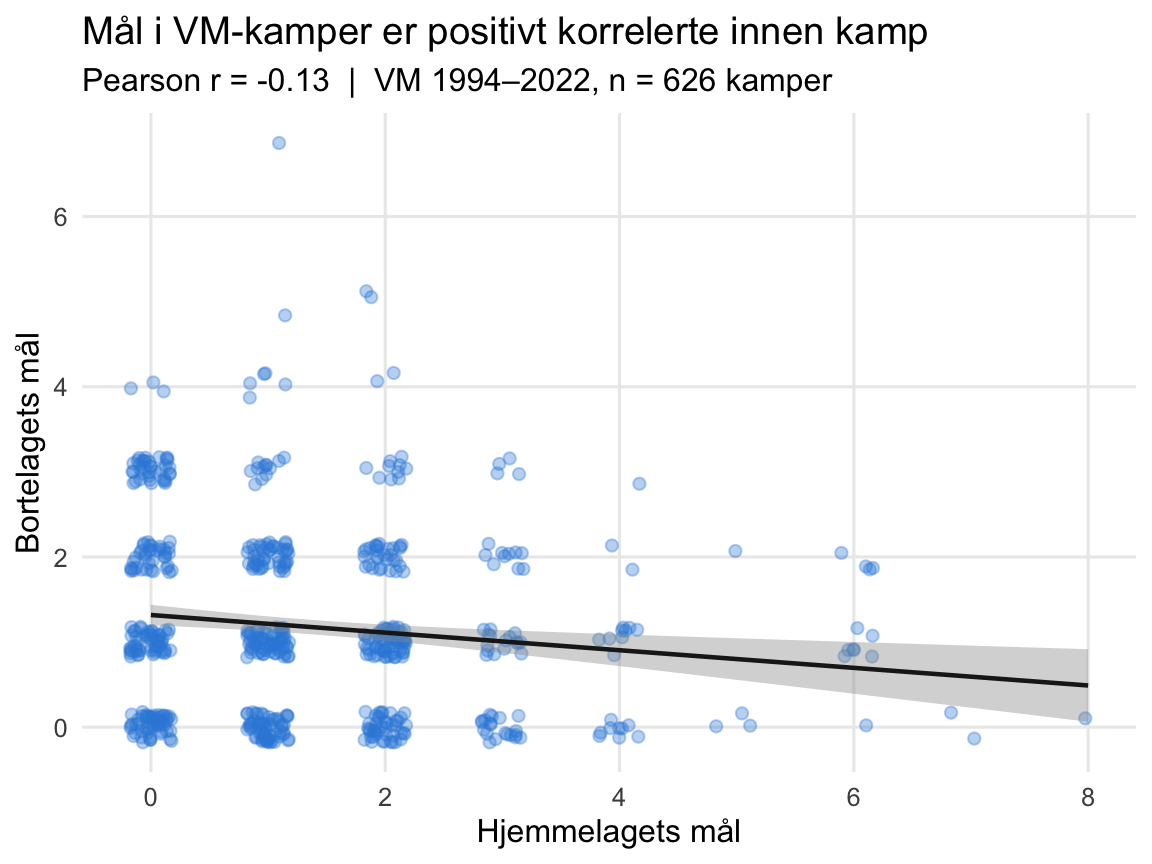
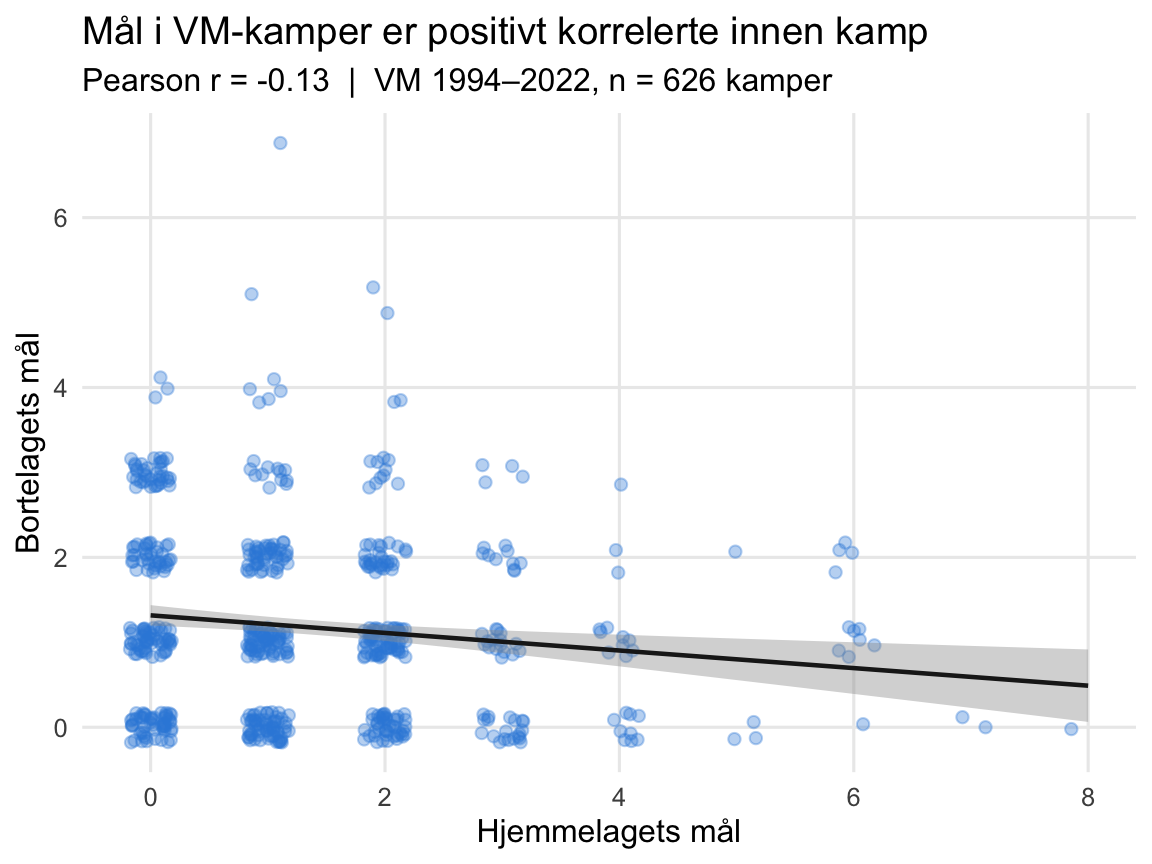
Uten Freeze

diff --git a/docs/posts/demokrati-og-vm/index.html b/docs/posts/demokrati-og-vm/index.html
@@ -188,8 +188,18 @@ window.Quarto = {
    
   <ul>
   <li><a href="#data-og-design" id="toc-data-og-design" class="nav-link active" data-scroll-target="#data-og-design">Data og design</a></li>
-  <li><a href="#hvorfor-tilfeldig-effekt" id="toc-hvorfor-tilfeldig-effekt" class="nav-link" data-scroll-target="#hvorfor-tilfeldig-effekt">Hvorfor tilfeldig effekt?</a></li>
-  <li><a href="#modellresultater" id="toc-modellresultater" class="nav-link" data-scroll-target="#modellresultater">Modellresultater</a></li>
+  <li><a href="#hva-gjør-tilfeldig-effekt-og-hva-skjer-uten-den" id="toc-hva-gjør-tilfeldig-effekt-og-hva-skjer-uten-den" class="nav-link" data-scroll-target="#hva-gjør-tilfeldig-effekt-og-hva-skjer-uten-den">Hva gjør tilfeldig effekt — og hva skjer uten den?</a>
+  <ul class="collapse">
+  <li><a href="#problemet-avhengige-observasjoner" id="toc-problemet-avhengige-observasjoner" class="nav-link" data-scroll-target="#problemet-avhengige-observasjoner">Problemet: avhengige observasjoner</a></li>
+  <li><a href="#modellene-side-om-side" id="toc-modellene-side-om-side" class="nav-link" data-scroll-target="#modellene-side-om-side">Modellene side om side</a></li>
+  <li><a href="#hva-sigma2-forteller-oss" id="toc-hva-sigma2-forteller-oss" class="nav-link" data-scroll-target="#hva-sigma2-forteller-oss">Hva <span class="math inline">\(\sigma^2\)</span> forteller oss</a></li>
+  <li><a href="#konsekvenser-for-inferens-hva-skjer-uten" id="toc-konsekvenser-for-inferens-hva-skjer-uten" class="nav-link" data-scroll-target="#konsekvenser-for-inferens-hva-skjer-uten">Konsekvenser for inferens: hva skjer uten?</a></li>
+  <li><a href="#en-kort-merknad-om-tolkning" id="toc-en-kort-merknad-om-tolkning" class="nav-link" data-scroll-target="#en-kort-merknad-om-tolkning">En kort merknad om tolkning</a></li>
+  </ul></li>
+  <li><a href="#modellresultater" id="toc-modellresultater" class="nav-link" data-scroll-target="#modellresultater">Modellresultater</a>
+  <ul class="collapse">
+  <li><a href="#fifa-ranglistens-effekt-i-detalj" id="toc-fifa-ranglistens-effekt-i-detalj" class="nav-link" data-scroll-target="#fifa-ranglistens-effekt-i-detalj">FIFA-ranglistens effekt i detalj</a></li>
+  </ul></li>
   <li><a href="#demokrativariabelen-i-fokus" id="toc-demokrativariabelen-i-fokus" class="nav-link" data-scroll-target="#demokrativariabelen-i-fokus">Demokrativariabelen i fokus</a>
   <ul class="collapse">
   <li><a href="#hva-kan-forklare-effekten" id="toc-hva-kan-forklare-effekten" class="nav-link" data-scroll-target="#hva-kan-forklare-effekten">Hva kan forklare effekten?</a></li>
@@ -219,17 +229,72 @@ window.Quarto = {
 <p>I tillegg kontrollerer vi for om laget spilte <em>hjemme som vertsnasjon</em> og om kampen var en <em>sluttspillkamp</em> (fremfor gruppespillskamp).</p>
 <p>Utfallet modelleres som en tellevariabel (antall mål scored av ett lag i én kamp), noe som gjør Poisson-regresjon til et naturlig valg.</p>
 </section>
-<section id="hvorfor-tilfeldig-effekt" class="level2">
-<h2 class="anchored" data-anchor-id="hvorfor-tilfeldig-effekt">Hvorfor tilfeldig effekt?</h2>
-<p>Her er problemet vi må løse: de to halvdelene av én og samme kamp er ikke uavhengige observasjoner.</p>
-<p>Tenk på en kamp mellom to offensive lag på en dag med dårlig forsvar, dårlig vær, eller en dommer som liker å la spillet gå. Begge lag ender opp med mange mål — ikke fordi de isolert sett er bedre enn modellen tilsier, men fordi <em>akkurat denne kampen</em> var målrik. Et lavmålskamp har den motsatte dynamikken: begge lag scorer lite, fordi det er noe ved denne spesifikke konteksten som hemmer mål.</p>
-<p>Resultatet er en positiv korrelasjon mellom de to lagenes målscorer innenfor en kamp. Ignorerer vi dette, underestimerer vi usikkerheten i estimatene — vi tror vi vet mer enn vi gjør.</p>
-<p>Løsningen er en <em>tilfeldig effekt</em> (random intercept) per kamp:</p>
+<section id="hva-gjør-tilfeldig-effekt-og-hva-skjer-uten-den" class="level2">
+<h2 class="anchored" data-anchor-id="hva-gjør-tilfeldig-effekt-og-hva-skjer-uten-den">Hva gjør tilfeldig effekt — og hva skjer uten den?</h2>
+<section id="problemet-avhengige-observasjoner" class="level3">
+<h3 class="anchored" data-anchor-id="problemet-avhengige-observasjoner">Problemet: avhengige observasjoner</h3>
+<p>Standard Poisson-regresjon antar at hver observasjon er trukket uavhengig. For oss betyr det at antall mål Brazil scorer, er uavhengig av antall mål som scores mot dem i den samme kampen. Det er åpenbart feil.</p>
+<div class="cell">
+<div class="cell-output-display">
+<div id="fig-korrelasjon" class="quarto-float quarto-figure quarto-figure-center anchored">
+<figure class="quarto-float quarto-float-fig figure">
+<div aria-describedby="fig-korrelasjon-caption-0ceaefa1-69ba-4598-a22c-09a6ac19f8ca">
+<img src="index_files/figure-html/fig-korrelasjon-1.png" class="img-fluid figure-img" width="576">
+</div>
+<figcaption class="quarto-float-caption-bottom quarto-float-caption quarto-float-fig" id="fig-korrelasjon-caption-0ceaefa1-69ba-4598-a22c-09a6ac19f8ca">
+Figure&nbsp;1: Hjemmelagets og bortelagets målscorer i de samme kampene. Den positive sammenhengen viser at høymålskamper er høymålskamper for begge lag — ikke bare for det ene.
+</figcaption>
+</figure>
+</div>
+</div>
+</div>
+<p>Korrelasjonen er -0.13. Det er ikke stor, men den er konsistent og ikke tilfeldig: det er noe <em>ved selve kampen</em> — dommeren, banen, det taktiske opplegget til begge lag, et åpent tempo — som enten fremmer eller hemmer mål for <em>begge</em> lag simultant.</p>
+<p>Kamp-til-kamp-variasjonen skyldes faktorer som ingen av kovariatene våre fanger. Når vi later som om de to halvdelene av kampen er uavhengige, forteller vi modellen at vi har mer informasjon enn vi egentlig har.</p>
+</section>
+<section id="modellene-side-om-side" class="level3">
+<h3 class="anchored" data-anchor-id="modellene-side-om-side">Modellene side om side</h3>
+<p>To modeller, bare én linje forskjell:</p>
 <p><span class="math display">\[
-\log(\mu_{ij}) = \beta_0 + \mathbf{x}_{ij}^\top \boldsymbol{\beta} + u_j, \qquad u_j \sim \mathcal{N}(0,\, \sigma^2)
+\underbrace{\log(\mu_{ij}) = \beta_0 + \mathbf{x}_{ij}^\top \boldsymbol{\beta}}_{\text{uten tilfeldig effekt}}
+\qquad\qquad
+\underbrace{\log(\mu_{ij}) = \beta_0 + \mathbf{x}_{ij}^\top \boldsymbol{\beta} + u_j}_{\text{med tilfeldig effekt}}
 \]</span></p>
-<p>Her er <span class="math inline">\(\mu_{ij}\)</span> det forventede antall mål for lag <span class="math inline">\(i\)</span> i kamp <span class="math inline">\(j\)</span>, <span class="math inline">\(\mathbf{x}_{ij}\)</span> er kovariater for det laget, og <span class="math inline">\(u_j\)</span> er en kampspesifikk “mål-vennlighet” som er lik for begge lag i samme kamp. Positive verdier av <span class="math inline">\(u_j\)</span> betyr at kampen hadde noe som fremmet mål utover det modellen kan forklare med lagkvalitet; negative verdier betyr det motsatte. Vi estimerer aldri <span class="math inline">\(u_j\)</span> direkte — vi integrerer dem bort og lar <span class="math inline">\(\sigma^2\)</span> fortelle oss hvor mye kampspesifikk variasjon det er.</p>
-<p>Dette er en enklere variant av et bivariate Poisson-design (der man modellerer de to lagenes mål som korrelerte tilvekster), men fanger det vesentligste: at kamp-konteksten skaper avhengighet mellom observasjonene.</p>
+<p>der <span class="math inline">\(u_j \sim \mathcal{N}(0,\,\sigma^2)\)</span>.</p>
+<p><span class="math inline">\(u_j\)</span> er en kampspesifikk “mål-vennlighet” — ett tall per kamp, lik for begge lagene i kamp <span class="math inline">\(j\)</span>. Det er ikke en parameter vi estimerer for å tolke direkte: vi integrerer den bort matematisk og lar <span class="math inline">\(\sigma^2\)</span> oppsummere <em>hvor mye</em> kampspesifikk variasjon som eksisterer.</p>
+<p>Nøkkelforskjellen: <span class="math inline">\(u_j\)</span> er <em>delt mellom de to lagene i samme kamp</em>. Det betyr at de to observasjonene i en kamp er <em>betinget uavhengige</em> gitt <span class="math inline">\(u_j\)</span>, men <em>marginalt korrelerte</em>. Modellen vet at begge halvdelene av kampen bærer fingeravtrykket av den samme kampen.</p>
+</section>
+<section id="hva-sigma2-forteller-oss" class="level3">
+<h3 class="anchored" data-anchor-id="hva-sigma2-forteller-oss">Hva <span class="math inline">\(\sigma^2\)</span> forteller oss</h3>
+<p>Den estimerte standardavviket for de kampspesifikke interceptene er <span class="math inline">\(\hat\sigma =\)</span> 0.12. Hva betyr det konkret?</p>
+<p>En kamp som ligger <em>ett standardavvik over</em> gjennomsnittet i “mål-vennlighet” (<span class="math inline">\(u_j = \hat\sigma\)</span>) produserer 1.13 ganger så mange mål som en gjennomsnittskamp, alt annet likt. Det tilsvarer at begge lag scorer omtrent 1.13× det modellen ellers ville forutsagt basert på lagkvalitet alene. Kamper ett standardavvik <em>under</em> gjennomsnittet produserer tilsvarende <span class="math inline">\(1/1.13 \approx 0.88\)</span> × av det forventede.</p>
+</section>
+<section id="konsekvenser-for-inferens-hva-skjer-uten" class="level3">
+<h3 class="anchored" data-anchor-id="konsekvenser-for-inferens-hva-skjer-uten">Konsekvenser for inferens: hva skjer uten?</h3>
+<p>Når modellen uten tilfeldig effekt ser 1252 observasjoner, behandler den dem som 1252 uavhengige datapunkter. Men halvparten av dem er paret innen kamper. Effektiv informasjon er et sted mellom 626 (perfekt korrelasjon) og 1252 (ingen korrelasjon).</p>
+<p>Konsekvensen er at modellen uten tilfeldig effekt <em>underestimerer standardfeilene</em> — konfidensintervallene blir for smale og p-verdiene for lave. Vi tror vi vet mer enn vi gjør.</p>
+<p>Figuren under sammenligner konfidensintervallene fra de to modellene:</p>
+<div class="cell">
+<div class="cell-output-display">
+<div id="fig-se-sammenligning" class="quarto-float quarto-figure quarto-figure-center anchored">
+<figure class="quarto-float quarto-float-fig figure">
+<div aria-describedby="fig-se-sammenligning-caption-0ceaefa1-69ba-4598-a22c-09a6ac19f8ca">
+<img src="index_files/figure-html/fig-se-sammenligning-1.png" class="img-fluid figure-img" width="720">
+</div>
+<figcaption class="quarto-float-caption-bottom quarto-float-caption quarto-float-fig" id="fig-se-sammenligning-caption-0ceaefa1-69ba-4598-a22c-09a6ac19f8ca">
+Figure&nbsp;2: Konfidensintervaller (95 %) for de faste effektene: modell med random intercept (lilla) mot modell uten (grå). Estimatene er nesten identiske, men modellen uten tilfeldig effekt gir systematisk smalere intervaller.
+</figcaption>
+</figure>
+</div>
+</div>
+</div>
+<p>Medianen for KI-bredden er 1.01× bredere i modellen med tilfeldig effekt enn uten. Punktestimatene er nesten identiske — det er ikke <em>hva</em> modellen tror effektene er som endrer seg, men <em>hvor sikker</em> den er.</p>
+<p>Det er det klassiske resultatet ved klyngede data: å ignorere klyngestrukturen gir ikke nødvendigvis skjeve estimater, men det gir for mye tillit til dem.</p>
+</section>
+<section id="en-kort-merknad-om-tolkning" class="level3">
+<h3 class="anchored" data-anchor-id="en-kort-merknad-om-tolkning">En kort merknad om tolkning</h3>
+<p>Tilfeldig-effekt-modellen gir oss koeffisienter som beskriver hva som skjer <em>innenfor en gitt kamp</em> — betinget på <span class="math inline">\(u_j\)</span>. Spørsmålet besvart er: “Gitt at vi allerede vet kampens mål-vennlighet, hva er effekten av FIFA-poengsum?”</p>
+<p>En modell uten tilfeldig effekt gir <em>marginale</em> koeffisienter: effekten gjennomsnittlig over alle kamper, uten å kontrollere for kampspesifikk variasjon. For de fleste formål er den betingede tolkningen den rette — vi vil vite hva som skiller lag fra hverandre, ikke hva som skiller kamper.</p>
+</section>
 </section>
 <section id="modellresultater" class="level2">
 <h2 class="anchored" data-anchor-id="modellresultater">Modellresultater</h2>
@@ -242,7 +307,7 @@ window.Quarto = {
 <img src="index_files/figure-html/fig-koeffisienter-1.png" class="img-fluid figure-img" width="672">
 </div>
 <figcaption class="quarto-float-caption-bottom quarto-float-caption quarto-float-fig" id="fig-koeffisienter-caption-0ceaefa1-69ba-4598-a22c-09a6ac19f8ca">
-Figure&nbsp;1: Eksponentierte koeffisienter fra Poisson mixed model (fulle modellen). Verdier over 1 øker forventet antall mål, verdier under 1 reduserer det. Horisontale linjer viser 95 % konfidensintervall.
+Figure&nbsp;3: Eksponentierte koeffisienter fra Poisson mixed model (fulle modellen). Verdier over 1 øker forventet antall mål, verdier under 1 reduserer det. Horisontale linjer viser 95 % konfidensintervall.
 </figcaption>
 </figure>
 </div>
@@ -340,6 +405,26 @@ Table&nbsp;1: Poisson mixed model — eksponentierte koeffisienter (rate ratios)
 <p>Som ventet er <strong>FIFA-ranglistepoengsummen</strong> den klart sterkeste prediktoren. Et lag med høy FIFA-poengsum scorer mer — og møter de et lag med høy FIFA-sum er effekten motsatt. Alt dette er fornuftig: FIFA-ranglisten er designet for å oppsummere akkurat den informasjonen.</p>
 <p><strong>Sluttspillkamper</strong> produserer litt færre mål. Det er også som forventet: lag spiller mer defensivt når et tap er terminalt.</p>
 <p><strong>Vertsnasjon-fordelen</strong> er positiv, men usikker.</p>
+<section id="fifa-ranglistens-effekt-i-detalj" class="level3">
+<h3 class="anchored" data-anchor-id="fifa-ranglistens-effekt-i-detalj">FIFA-ranglistens effekt i detalj</h3>
+<p>Figuren under viser hvordan forventet antall mål endrer seg når FIFA-poengsummen varierer for <em>eget lag</em> (blå linje) og for <em>motstanderen</em> (rød linje), mens den andre siden holdes konstant på medianen.</p>
+<div class="cell">
+<div class="cell-output-display">
+<div id="fig-fifa" class="quarto-float quarto-figure quarto-figure-center anchored">
+<figure class="quarto-float quarto-float-fig figure">
+<div aria-describedby="fig-fifa-caption-0ceaefa1-69ba-4598-a22c-09a6ac19f8ca">
+<img src="index_files/figure-html/fig-fifa-1.png" class="img-fluid figure-img" width="672">
+</div>
+<figcaption class="quarto-float-caption-bottom quarto-float-caption quarto-float-fig" id="fig-fifa-caption-0ceaefa1-69ba-4598-a22c-09a6ac19f8ca">
+Figure&nbsp;4: Forventet antall mål som funksjon av FIFA-poengsum, separat for eget lag og motstander. Den andre sidens FIFA-poengsum er holdt konstant på medianen. Bånd viser 95 % KI.
+</figcaption>
+</figure>
+</div>
+</div>
+</div>
+<p>Merk at koeffisienten opererer på enkeltpoeng i FIFA-ranglisten. Én enkelt poeng gjør svært lite — det interessante er hva som skjer over <em>hundre</em> poeng, som er et realistisk sprang mellom to lag i samme VM. Et hundre poengs fordel tilsvarer omtrent 6.2&nbsp;% flere forventede mål, holdt alt annet konstant.</p>
+<p>De to linjene er omtrent speilbilder av hverandre. Det er en forutsetning modellen <em>ikke</em> tvinger frem: vi lar eget lag og motstanderens FIFA-koeffisient være frie. At de er tilnærmet symmetriske er et empirisk resultat og støtter antagelsen i den begrensede differansemodellen.</p>
+</section>
 </section>
 <section id="demokrativariabelen-i-fokus" class="level2">
 <h2 class="anchored" data-anchor-id="demokrativariabelen-i-fokus">Demokrativariabelen i fokus</h2>
@@ -352,7 +437,7 @@ Table&nbsp;1: Poisson mixed model — eksponentierte koeffisienter (rate ratios)
 <img src="index_files/figure-html/fig-demokrati-1.png" class="img-fluid figure-img" width="672">
 </div>
 <figcaption class="quarto-float-caption-bottom quarto-float-caption quarto-float-fig" id="fig-demokrati-caption-0ceaefa1-69ba-4598-a22c-09a6ac19f8ca">
-Figure&nbsp;2: Forventet antall mål som funksjon av V-Dem Liberal Democracy Index for eget lag, med motstanderen holdt på medianen. Grå bånd er 95 % prediksjonsintervall for den faste delen av modellen.
+Figure&nbsp;5: Forventet antall mål som funksjon av V-Dem Liberal Democracy Index for eget lag, med motstanderen holdt på medianen. Grå bånd er 95 % prediksjonsintervall for den faste delen av modellen.
 </figcaption>
 </figure>
 </div>

diff --git a/docs/index.html b/docs/index.html
@@ -245,10 +245,10 @@ Håvard Strand
 </a>
 </div>
 </div>
-<div class="quarto-post image-right" data-index="1" data-categories="YW5hbHlzZSUyQ21ldG9kZSUyQ2RlbW9rcmF0aQ==" data-listing-date-sort="1777154400000" data-listing-file-modified-sort="1777235832775" data-listing-date-modified-sort="NaN" data-listing-reading-time-sort="23" data-listing-word-count-sort="4411">
+<div class="quarto-post image-right" data-index="1" data-categories="YW5hbHlzZSUyQ21ldG9kZSUyQ2RlbW9rcmF0aQ==" data-listing-date-sort="1777154400000" data-listing-file-modified-sort="1777236636163" data-listing-date-modified-sort="NaN" data-listing-reading-time-sort="22" data-listing-word-count-sort="4390">
 <div class="thumbnail"><a href="./posts/demokrati-og-vm/index.html" class="no-external">
 
-<p class="card-img-top"><img loading='lazy' src="posts/demokrati-og-vm/index_files/figure-html/fig-koeffisienter-1.png"  class="thumbnail-image card-img"/></p>
+<p class="card-img-top"><img loading='lazy' src="posts/demokrati-og-vm/index_files/figure-html/fig-korrelasjon-1.png"  class="thumbnail-image card-img"/></p>
 
 </a></div>
 <div class="body">